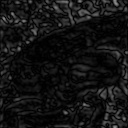
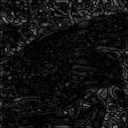
fix calc r

diff --git a/Question_31_40/answers/answer_35.py b/Question_31_40/answers/answer_35.py
@@ -36,7 +36,8 @@ _x = x - W // 2
 _y = y - H // 2
 r = np.sqrt(_x ** 2 + _y ** 2)
 mask = np.zeros((H, W), dtype=np.float32)
-mask[np.where((r > (W//2*p1)) & (r < (W//2*p2)))] = 1
+max_r = np.sqrt(((W//2)**2)+((H//2)**2))
+mask[np.where((r > (max_r*p1)) & (r < (max_r*p2)))] = 1
 
 _G *= mask
 

diff --git a/Question_31_40/answers/answer_33.py b/Question_31_40/answers/answer_33.py
@@ -35,7 +35,7 @@ _x = x - W // 2
 _y = y - H // 2
 r = np.sqrt(_x ** 2 + _y ** 2)
 mask = np.ones((H, W), dtype=np.float32)
-mask[r>(W//2*p)] = 0
+mask[r>(np.sqrt(((W//2)**2)+((H//2)**2))*p)] = 0
 
 _G *= mask
 

diff --git a/Question_31_40/answers/answer_34.py b/Question_31_40/answers/answer_34.py
@@ -35,7 +35,7 @@ _x = x - W // 2
 _y = y - H // 2
 r = np.sqrt(_x ** 2 + _y ** 2)
 mask = np.ones((H, W), dtype=np.float32)
-mask[r<(W//2*p)] = 0
+mask[r<(np.sqrt(((W//2)**2)+((H//2)**2))*p)] = 0
 
 _G *= mask
 
